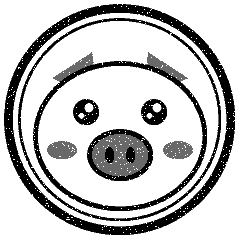
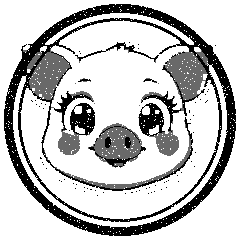
Stamp rally: 7 new mascot stamps in the same detailed style as the originals
Claude-Session: https://claude.ai/code/session_01VbLQR1uDTQ1BpvTi6Fe6g7

diff --git a/scripts/pixel-art/ink.py b/scripts/pixel-art/ink.py
@@ -1,11 +1,11 @@
 # Usage: python3 ink.py scripts/pixel-art/src src/assets/gimmick/ink src/avatar/layers
-# Turn the 8 kawaii mascot pictures into rubber-stamp ink masks (alpha only),
+# Turn the 15 kawaii mascot pictures into rubber-stamp ink masks (alpha only),
 # and draw the stamp-rally ribbon as an avatar layer (LPC walk sheet layout).
 from PIL import Image, ImageDraw, ImageFilter
 import random, sys, colorsys
 SRC, OUT, LAYERS = sys.argv[1], sys.argv[2], sys.argv[3]
 R = random.Random(3)
-for n in range(1, 9):
+for n in range(1, 16):
     im = Image.open(f'{SRC}/stamp{n}.png').convert('RGBA').resize((200, 200))
     canvas = Image.new('RGBA', (240, 240), (0, 0, 0, 0)); canvas.paste(im, (20, 20), im)
     px = canvas.load(); out = Image.new('L', (240, 240), 0); o = out.load()

diff --git a/scripts/pixel-art/README.md b/scripts/pixel-art/README.md
@@ -4,7 +4,7 @@ All town-gimmick art is original and made by these scripts (Python 3 + Pillow), 
 
 - `mon.py <out>` — the 8 pixel-art monsters (`src/assets/gimmick/px/mon*.png`).
 - `px2.py <out>` — battle background, capture capsule, block-world blocks and ingots, ? blocks, bricks, coins.
-- `ink.py src <out> <layers>` — turns the kawaii mascots in `src/` into rubber-stamp ink masks, and draws the stamp-rally ribbon avatar layer.
+- `ink.py src <out> <layers>` — turns the 15 kawaii mascots in `src/` into rubber-stamp ink masks, and draws the stamp-rally ribbon avatar layer.
 
 ```
 python3 scripts/pixel-art/mon.py src/assets/gimmick/px
